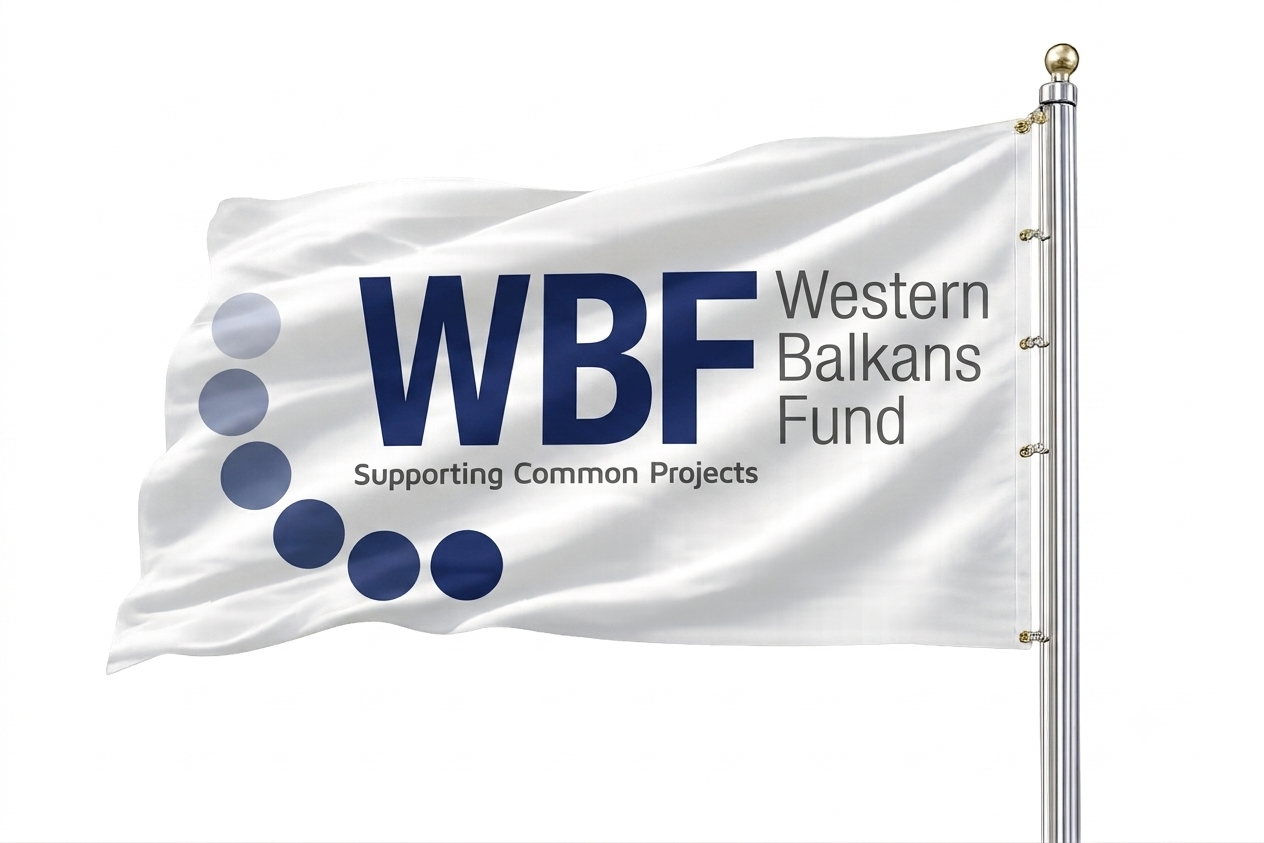
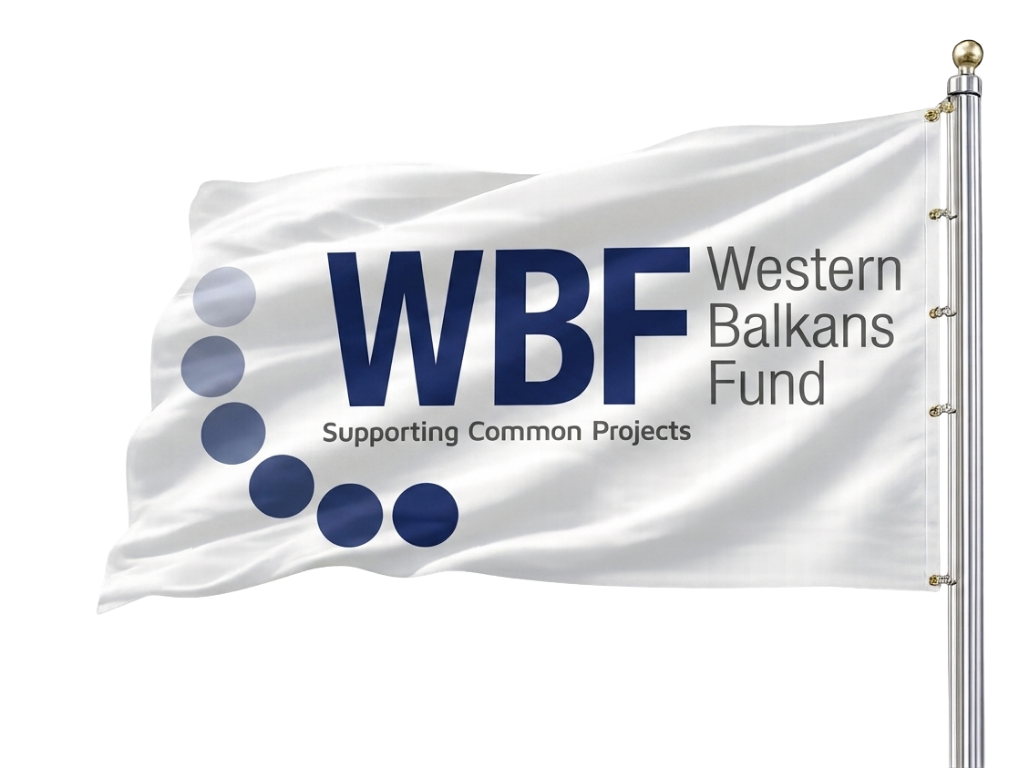
Use the transparent hero flag and correct its dimensions
The committed wbfflag.png was 1264x843 and fully opaque — every corner
pixel was A=255 on near-white — so it rendered as a white box against
the navy hero. Replace it with the 1024x768 export that has a live
alpha channel; corners now read A=0.

The width/height attributes still declared 1536x1024, a 1.5 ratio
against the file's 1.333, which reserved the wrong space and shifted
the hero on load. Point them at the file's real pixels and note in the
markup that this image has to keep its alpha.

Changed region(s): [[0.0938, 0.0312, 0.9688, 1.0]]

diff --git a/index.html b/index.html
@@ -1812,10 +1812,13 @@
     <!-- Decorative: the WBF wordmark already appears in the header, so this
          carries no information a screen reader needs. -->
     <div class="hero-flag" aria-hidden="true">
-      <!-- TODO: wbfflag.png is a 2.3 MB source export displayed at ~580px wide.
-           Replace with a web-sized version (WebP or JPEG, ~1200px, well under
-           300 KB) — it is the heaviest asset on the homepage. -->
-      <img src="/assets/images/wbfflag.png" alt="" width="1536" height="1024" onerror="this.closest('.hero-flag').remove()">
+      <!-- Must stay a PNG with a live alpha channel: it sits directly on the
+           navy hero, so any baked-in background shows as a white box. The
+           width/height below are the file's real pixels — keep them in step
+           when swapping the image, or the reserved space shifts on load.
+           TODO: still ~690 KB at ~580px wide, the heaviest asset on the
+           homepage; a smaller export (or WebP with alpha) would pay off. -->
+      <img src="/assets/images/wbfflag.png" alt="" width="1024" height="768" onerror="this.closest('.hero-flag').remove()">
     </div>
   </div>
 
